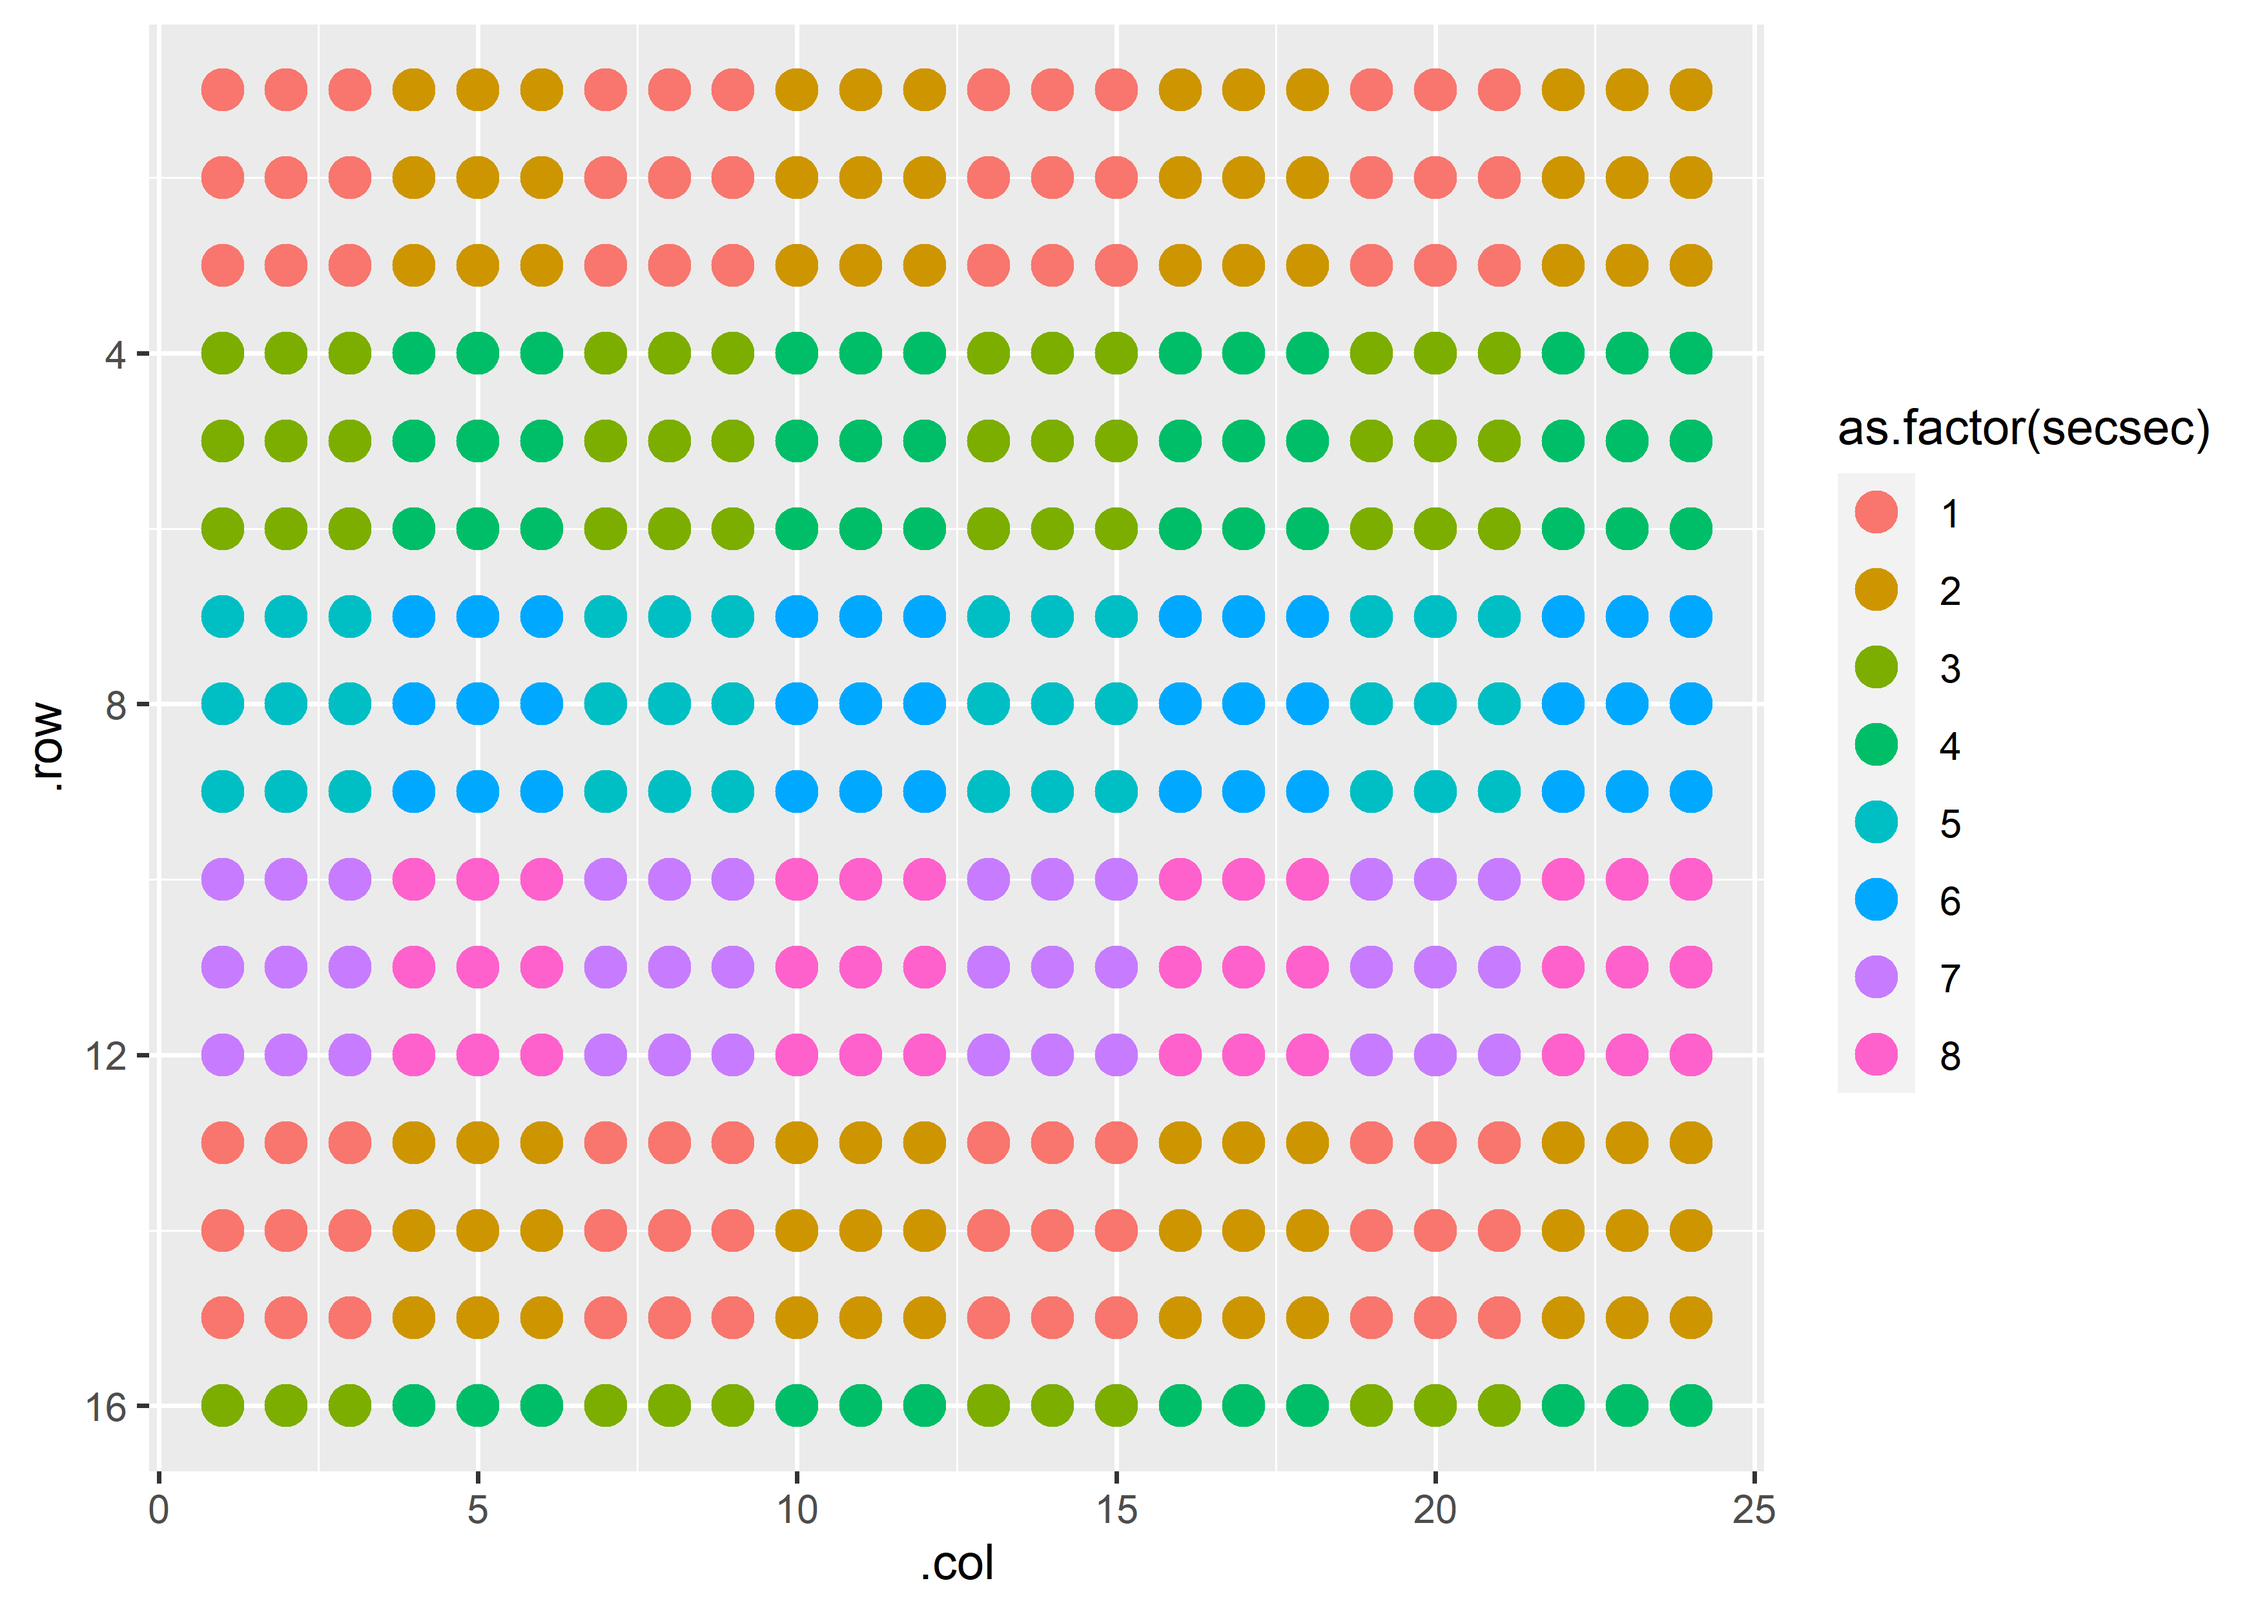
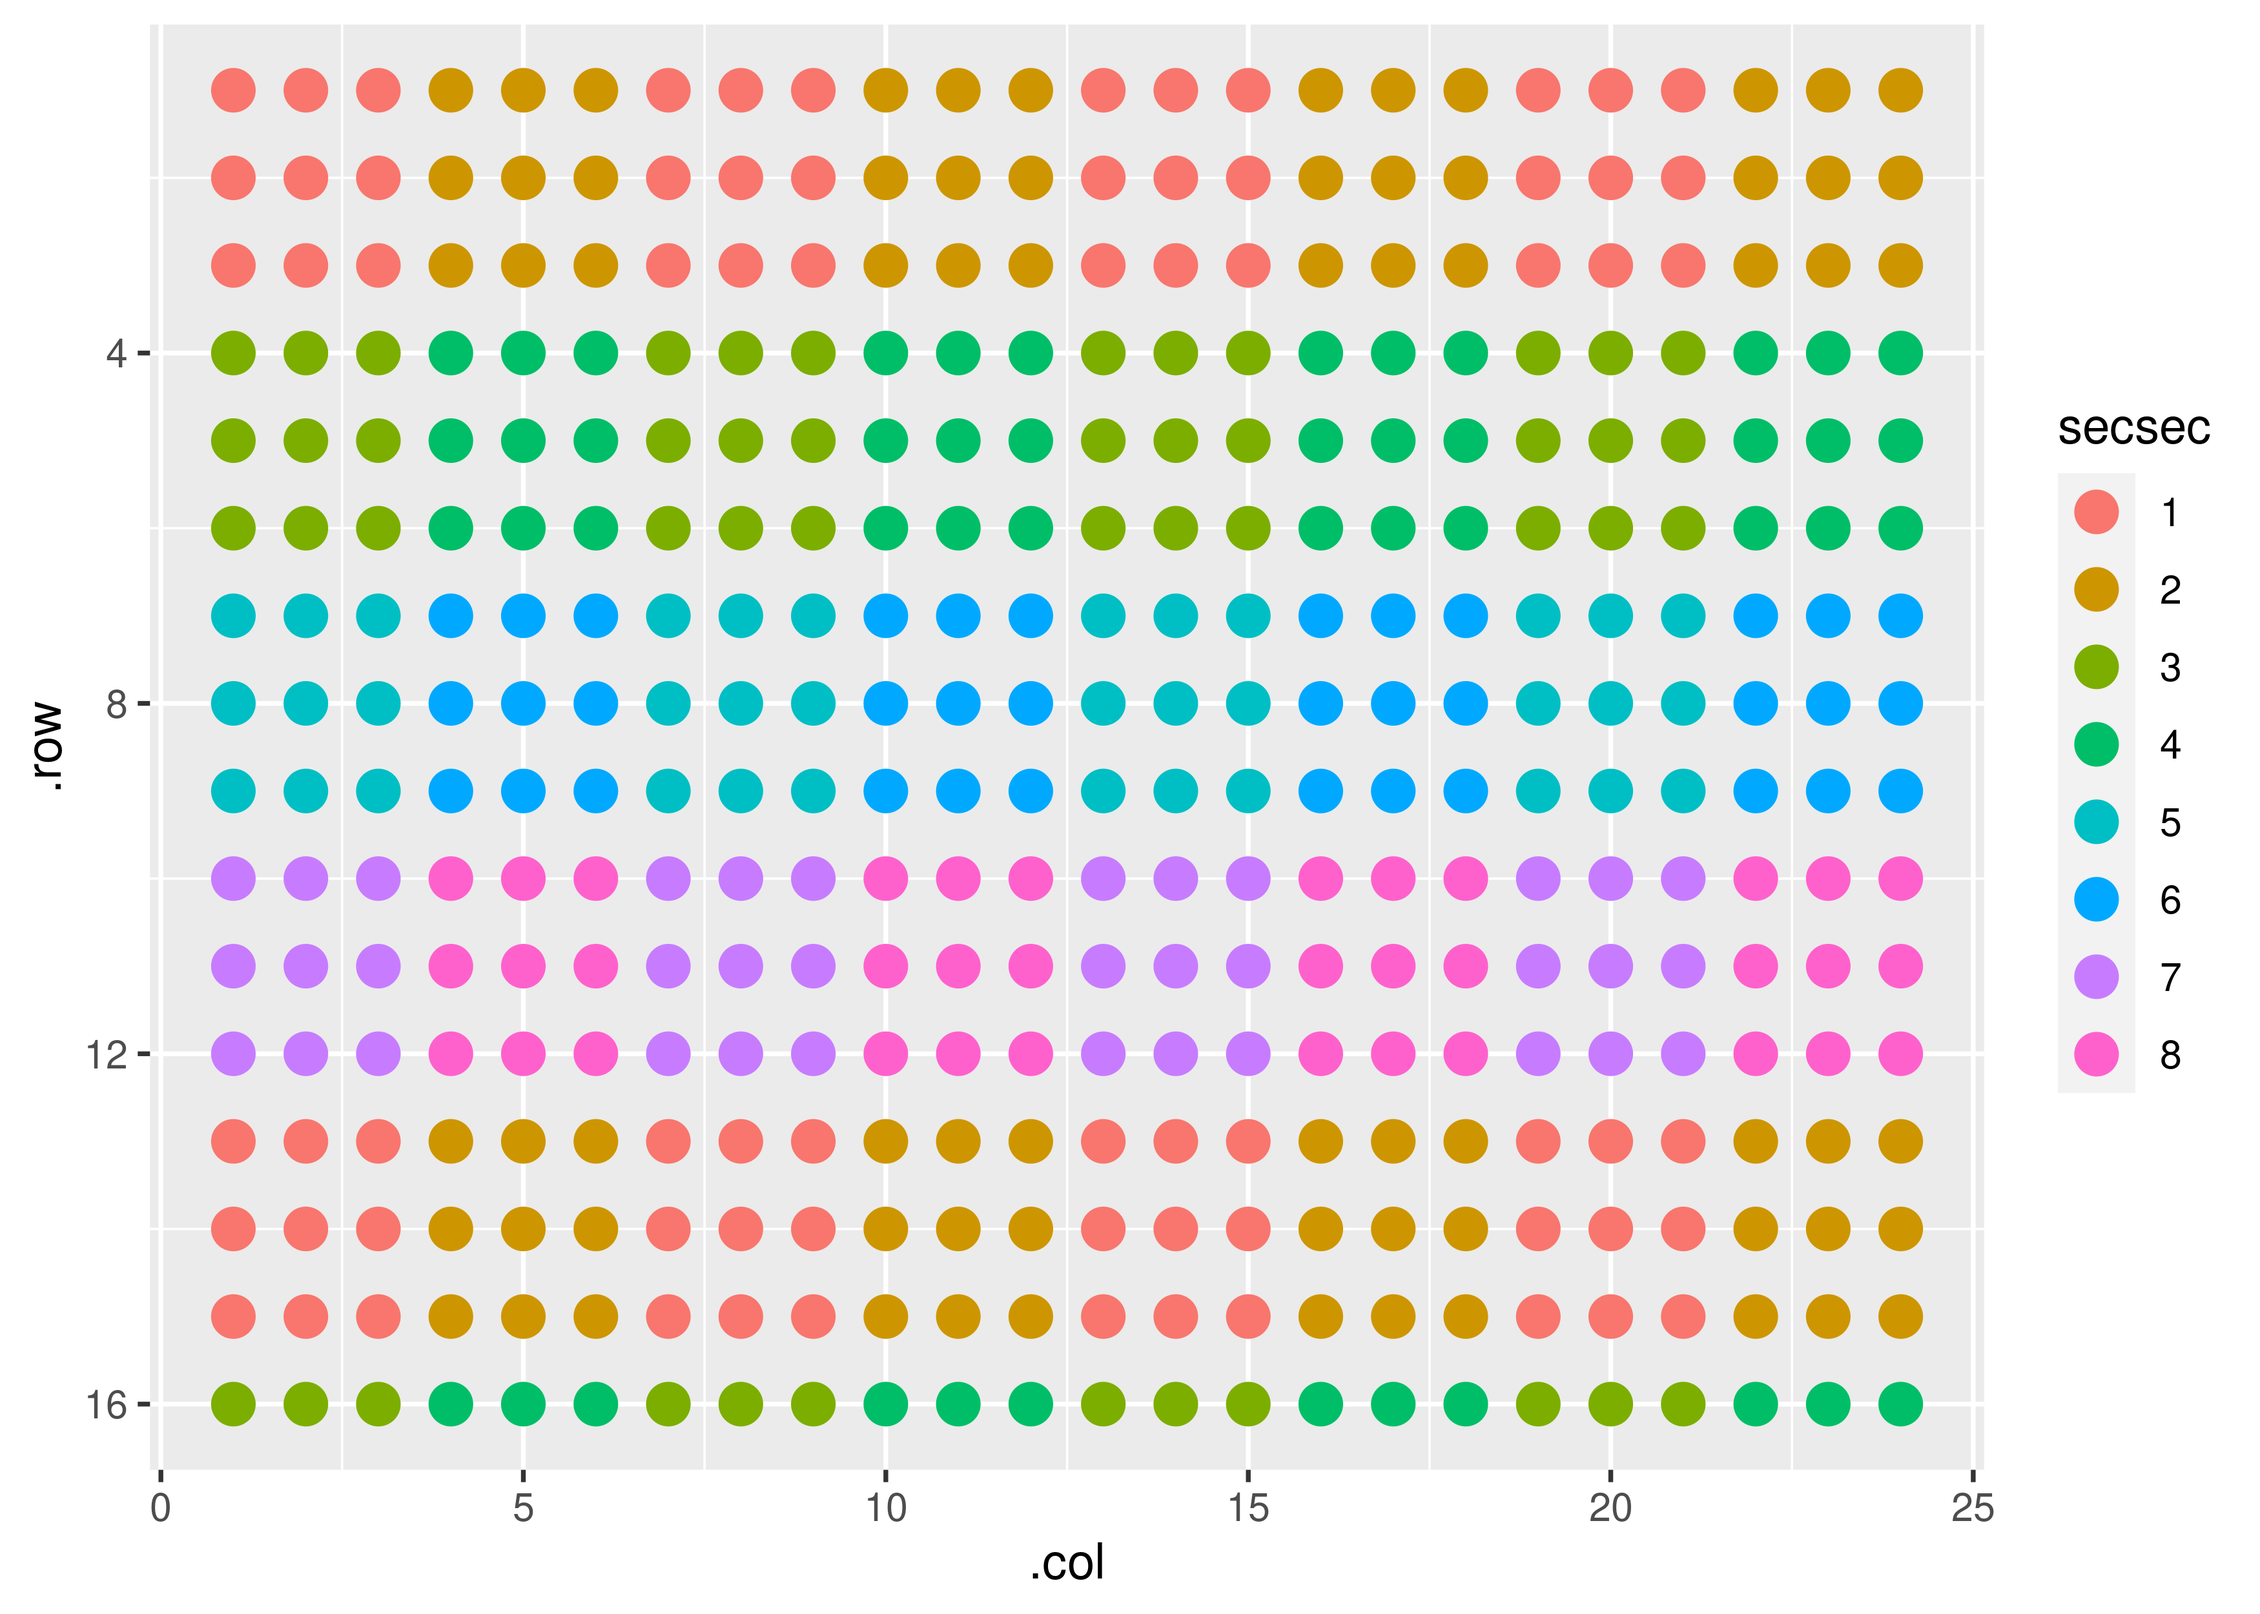
rebuild readme

diff --git a/README.md b/README.md
@@ -1,10 +1,10 @@
 
+<!-- README.md is generated from README.Rmd. Please edit that file -->
 <style type="text/css">
 span > img {
  float:left;
 }
 </style>
-<!-- README.md is generated from README.Rmd. Please edit that file -->
 
 # gp <a href="https://kaiaragaki.github.io/gp/"><img src="man/figures/logo.png" align="right" height="138" /></a>
 
@@ -45,7 +45,7 @@ rectangular ‘sections’ to our plates:
 ``` r
 gp(rows = 16, cols = 24) |> 
   gp_sec("my_section", nrow = 12, ncol = 6) |> 
-  gp_plot(as.factor(my_section))
+  gp_plot(my_section)
 ```
 
 <img src="man/figures/README-unnamed-chunk-2-1.png" width="100%" />
@@ -57,7 +57,7 @@ These sections can have sections of their own, just by layering one
 gp(rows = 16, cols = 24) |> 
   gp_sec("my_section", nrow = 12, ncol = 6) |> 
   gp_sec("secsec", nrow = 3, ncol = 3) |> 
-  gp_plot(as.factor(secsec))
+  gp_plot(secsec)
 ```
 
 <img src="man/figures/README-unnamed-chunk-3-1.png" width="100%" />
@@ -68,7 +68,7 @@ sparkline-esque plates.
 ``` r
 mini_plot_cols <- gp(8, 12) |> 
   gp_sec(name = "primers", ncol = 3) |> 
-  gp_plot(as.factor(primers)) + 
+  gp_plot(primers) + 
   gp_mini_theme()
 ggplot2::ggsave(filename = "./man/figures/mini-plot_cols.png", 
                 plot = mini_plot_cols,
@@ -79,7 +79,7 @@ ggplot2::ggsave(filename = "./man/figures/mini-plot_cols.png",
 
 mini_plot_rows <- gp(8, 12) |> 
   gp_sec(name = "primers", nrow = 3) |> 
-  gp_plot(as.factor(primers)) + 
+  gp_plot(primers) + 
   gp_mini_theme()
 ggplot2::ggsave(filename = "./man/figures/mini-plot_rows.png", 
                 plot = mini_plot_rows,
